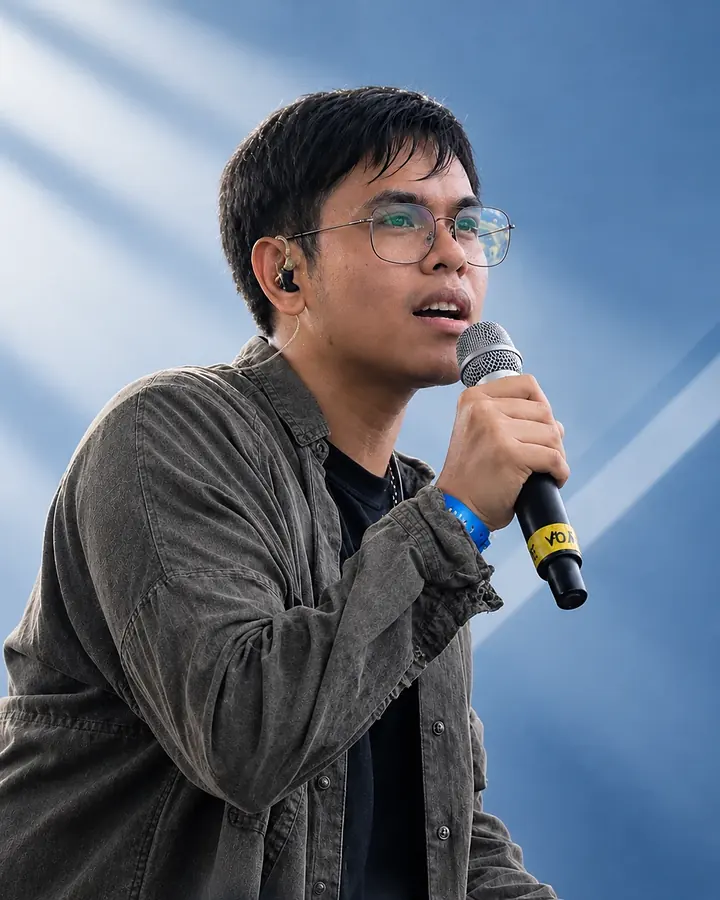
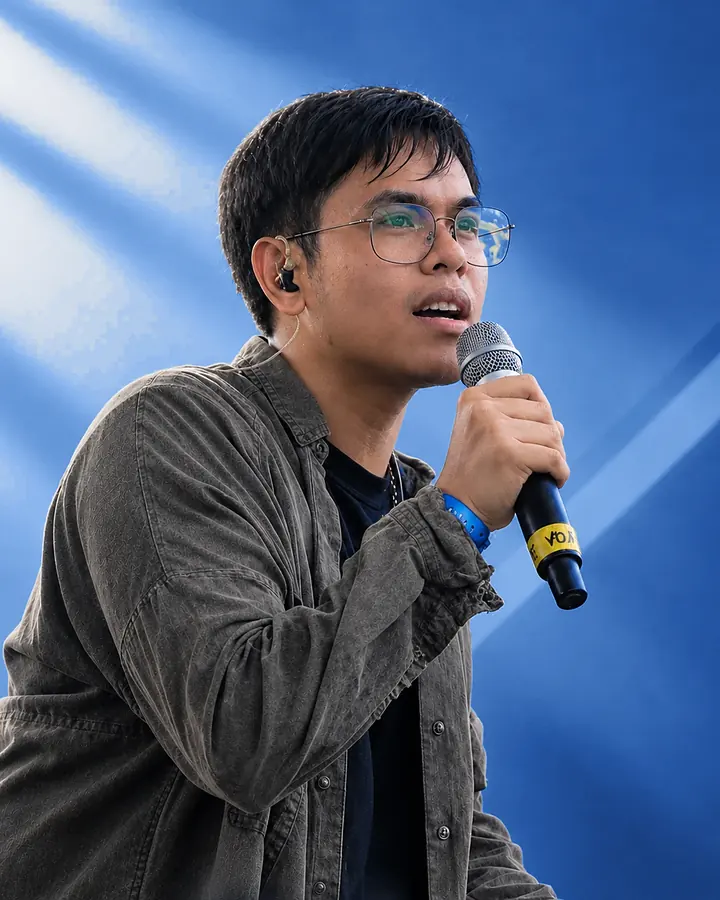
v5.1
v5.1: Navy-graded photos

Colour-graded the hero photos to match the navy theme: a deeper navy backdrop, with sky-blue accents in the light beams and stripe.
Applied it to the desktop, tablet and phone backgrounds, plus the Bio and Gallery portrait and the share image, so everything matches.
Left his skin tones, hair, clothing and eye colour unchanged.
Kept the file sizes the same as v5, so loading speed isn’t affected.
Added a “Colour grade” note to the README for future photo swaps.

diff --git a/styles.css b/styles.css
@@ -2,27 +2,37 @@
    Fonts are loaded from index.html (not @import), so they don't block rendering in a chain. */
 
 :root {
-  /* Palette sampled from the hero photo: navy jacket, denim wall, steel-grey light */
-  --accent: #8fb2d9;        /* text accents, icons, buttons (8.9:1 on the dark background) */
-  --accent-soft: #a9c4e2;   /* section titles */
-  --accent-hover: #b4cde8;  /* hover state for accents and buttons */
-  --accent-line: #5f87b3;   /* rules, underlines, borders */
-  --ice: #e6edf5;           /* hero name: light enough to read on the denim-blue photo */
-  --bg-dark: #070d16;       /* page background: the jacket navy, darkened */
-  --bg-bar: #04080f;        /* top bar and footer */
+  /* Navy palette. Change these and the whole site follows. */
+  --bg-dark: #0a1a35;       /* page background: navy */
+  --bg-bar: #061429;        /* top bar and footer: deeper navy */
+  --alt: #0e2244;           /* alternate sections: a step lighter */
+  --tile: #112b52;          /* placeholder tiles and release covers */
+  --tile-top: #16335f;      /* the lighter end of the cover gradient */
+  --field: #081730;         /* form fields */
+  --panel: rgba(6, 20, 41, 0.82);
+
+  --accent: #86b4f0;        /* text accents, icons, buttons (8:1 on the page background) */
+  --accent-soft: #a5c6f5;   /* section titles */
+  --accent-hover: #bcd6f8;  /* hover state for accents and buttons */
+  --accent-line: #4f86cf;   /* rules, underlines, borders */
+  --ice: #e9f1fc;           /* hero name: light enough to read on the denim-blue photo */
+  --text: #cdd9ec;          /* body copy */
+  --muted: #9db0cc;
+  --line: rgba(134, 180, 240, 0.22);
+  --error: #e8907f;
+
+  /* The same colours as bare numbers, for translucent overlays: rgba(var(--navy-rgb), 0.5) */
+  --navy-rgb: 10, 26, 53;        /* = --bg-dark */
+  --panel-rgb: 6, 20, 41;        /* = --bg-bar */
+  --shadow-rgb: 3, 10, 28;       /* text shadows */
+  --accent-rgb: 134, 180, 240;   /* = --accent */
+  --accent-line-rgb: 79, 134, 207; /* = --accent-line */
 
   --font-display: "Josefin Sans", "Century Gothic", Futura, "Avenir Next", "Trebuchet MS", sans-serif;
   --font-serif: "Playfair Display", Georgia, serif;
   --font-ui: Arial, Helvetica, sans-serif;
 
   --gutter: clamp(1rem, 5vw, 4rem);
-
-  --alt: #0b1420;
-  --panel: rgba(8, 15, 26, 0.8);
-  --line: rgba(143, 178, 217, 0.2);
-  --text: #cfd8e3;          /* body copy */
-  --muted: #9aa8ba;
-  --error: #e8907f;
 }
 
 /* ==========================================================================
@@ -290,9 +300,9 @@ main {
   z-index: -1;
   pointer-events: none;
   background:
-    linear-gradient(to top, rgba(7, 13, 22, 0.85) 0%, rgba(7, 13, 22, 0) 38%),
-    linear-gradient(to bottom, rgba(7, 13, 22, 0.35) 0%, rgba(7, 13, 22, 0) 30%),
-    radial-gradient(ellipse 48% 26% at 72% 20%, rgba(7, 13, 22, 0.5), rgba(7, 13, 22, 0) 100%);
+    linear-gradient(to top, rgba(var(--navy-rgb), 0.85) 0%, rgba(var(--navy-rgb), 0) 38%),
+    linear-gradient(to bottom, rgba(var(--navy-rgb), 0.35) 0%, rgba(var(--navy-rgb), 0) 30%),
+    radial-gradient(ellipse 48% 26% at 72% 20%, rgba(var(--navy-rgb), 0.5), rgba(var(--navy-rgb), 0) 100%);
 }
 
 /* On desktop and landscape he sits on the left, so the text goes in the right-hand area:
@@ -319,7 +329,7 @@ main {
   width: max-content; /* so script.js can read the text's true width */
   white-space: nowrap;
   text-transform: uppercase;
-  text-shadow: 0 2px 22px rgba(4, 10, 20, 0.55);
+  text-shadow: 0 2px 22px rgba(var(--shadow-rgb), 0.55);
 }
 
 .hero-copy p {
@@ -331,7 +341,7 @@ main {
   font-weight: 600;
   letter-spacing: 0.03em;
   line-height: 1.4;
-  text-shadow: 0 1px 14px rgba(4, 10, 20, 0.75);
+  text-shadow: 0 1px 14px rgba(var(--shadow-rgb), 0.75);
 }
 
 /* ==========================================================================
@@ -341,7 +351,7 @@ main {
   width: min(100%, 26rem);
   margin-left: auto;
   padding: 1.5rem 1.75rem;
-  background-color: rgba(8, 15, 26, 0.78);
+  background-color: rgba(var(--panel-rgb), 0.78);
   -webkit-backdrop-filter: blur(4px);
   backdrop-filter: blur(4px);
   border-top: 1px solid rgba(255, 255, 255, 0.08);
@@ -394,8 +404,8 @@ main {
 
 @media (hover: hover) and (prefers-reduced-motion: no-preference) {
   .show-panel:hover {
-    background-color: rgba(8, 15, 26, 0.9);
-    border-top-color: rgba(143, 178, 217, 0.55);
+    background-color: rgba(var(--panel-rgb), 0.9);
+    border-top-color: rgba(var(--accent-rgb), 0.55);
     transform: translateY(-3px);
   }
 }
@@ -533,7 +543,7 @@ main {
 
   /* Only the bottom needs darkening now (behind the shows panel) */
   .hero::after {
-    background: linear-gradient(to top, rgba(7, 13, 22, 0.85) 0%, rgba(7, 13, 22, 0) 38%);
+    background: linear-gradient(to top, rgba(var(--navy-rgb), 0.85) 0%, rgba(var(--navy-rgb), 0) 38%);
   }
 }
 
@@ -577,8 +587,8 @@ main {
   pointer-events: none;
   opacity: 0.55;
   background:
-    linear-gradient(to top right, transparent calc(50% - 0.5px), rgba(143, 178, 217, 0.5) 50%, transparent calc(50% + 0.5px)),
-    linear-gradient(to top right, transparent calc(50% + 14px), rgba(143, 178, 217, 0.25) calc(50% + 15px), transparent calc(50% + 16px));
+    linear-gradient(to top right, transparent calc(50% - 0.5px), rgba(var(--accent-rgb), 0.5) 50%, transparent calc(50% + 0.5px)),
+    linear-gradient(to top right, transparent calc(50% + 14px), rgba(var(--accent-rgb), 0.25) calc(50% + 15px), transparent calc(50% + 16px));
   -webkit-mask-image: linear-gradient(to left, #000, transparent);
   mask-image: linear-gradient(to left, #000, transparent);
 }
@@ -652,8 +662,8 @@ main {
   place-items: center;
   aspect-ratio: 1;
   background:
-    radial-gradient(circle at 20% 15%, rgba(95, 135, 179, 0.35), transparent 55%),
-    linear-gradient(160deg, #10203a, #070d16);
+    radial-gradient(circle at 20% 15%, rgba(var(--accent-line-rgb), 0.35), transparent 55%),
+    linear-gradient(160deg, var(--tile-top), var(--bg-dark));
   border-bottom: 1px solid var(--line);
 }
 
@@ -736,7 +746,7 @@ main {
 .shot {
   position: relative;
   overflow: hidden;
-  background: linear-gradient(135deg, #0f1c30, #070d16);
+  background: linear-gradient(135deg, var(--tile), var(--bg-dark));
   border: 1px solid var(--line);
 }
 
@@ -899,7 +909,7 @@ main {
   padding: 0.8rem 1rem;
   border: 1px solid rgba(255, 255, 255, 0.2);
   border-radius: 0;
-  background-color: #08111d;
+  background-color: var(--field);
   color: #fff;
   font: inherit;
   font-size: 1rem; /* 16px stops iPhones zooming in on focus */
@@ -976,7 +986,7 @@ main {
 }
 
 .btn-secondary:hover {
-  background: rgba(143, 178, 217, 0.14);
+  background: rgba(var(--accent-rgb), 0.14);
 }
 
 .btn:disabled {
@@ -1032,7 +1042,7 @@ main {
 }
 
 @media (hover: hover) and (prefers-reduced-motion: no-preference) {
-  .card:hover { border-top-color: rgba(143, 178, 217, 0.55); transform: translateY(-3px); }
+  .card:hover { border-top-color: rgba(var(--accent-rgb), 0.55); transform: translateY(-3px); }
   .shot--photo:hover img { transform: scale(1.04); }
 }
 

diff --git a/index.html b/index.html
@@ -4,7 +4,7 @@
   <meta charset="UTF-8">
   <meta name="viewport" content="width=device-width, initial-scale=1">
   <meta name="color-scheme" content="dark">
-  <meta name="theme-color" content="#04080f">
+  <meta name="theme-color" content="#061429">
 
   <!--
     Content Security Policy: the browser may only load what this page actually uses.

diff --git a/README.md b/README.md
@@ -3,7 +3,7 @@
 A one-page musician profile site built with plain HTML, CSS and JavaScript. There is no framework and no build step.
 
 - **Live site:** https://minawph.pages.dev/
-- **Version:** v4.9 (24 October 2026)
+- **Version:** v5.1 (25 October 2026)
 
 ## What's on the page
 
@@ -44,21 +44,23 @@ The contact form cannot be tested from a local file. See **Contact form** below.
 
 ## Colour palette
 
-The colours are sampled from the hero photo (navy denim jacket, blue wall, steel-grey light). They all live as variables at the top of `styles.css`, so a change there updates the whole site.
+A navy theme that sits alongside the blues in the hero photo. All colours live as variables at the top of `styles.css`, so changing them there changes the whole site. Translucent overlays use the bare-number versions (`--navy-rgb`, `--accent-rgb` and so on), so keep those in step with the matching colour.
 
 | Variable | Value | Used for |
 | --- | --- | --- |
-| `--bg-dark` | `#070d16` | Page background |
-| `--bg-bar` | `#04080f` | Top bar and footer |
-| `--alt` | `#0b1420` | Alternate section background |
-| `--ice` | `#e6edf5` | Hero name (light enough to read on the blue photo) |
-| `--accent-soft` | `#a9c4e2` | Section titles |
-| `--accent` | `#8fb2d9` | Links, tags, dates, icons, buttons, logo |
-| `--accent-hover` | `#b4cde8` | Hover state |
-| `--accent-line` | `#5f87b3` | Rules and underlines |
-| `--text` / `--muted` | `#cfd8e3` / `#9aa8ba` | Body copy / secondary text |
+| `--bg-dark` | `#0a1a35` | Page background (also `--navy-rgb`) |
+| `--bg-bar` | `#061429` | Top bar and footer (also `--panel-rgb`) |
+| `--alt` | `#0e2244` | Alternate section background |
+| `--tile` / `--tile-top` | `#112b52` / `#16335f` | Placeholder tiles and release covers |
+| `--field` | `#081730` | Form fields |
+| `--ice` | `#e9f1fc` | Hero name (light enough to read on the blue photo) |
+| `--accent-soft` | `#a5c6f5` | Section titles |
+| `--accent` | `#86b4f0` | Links, tags, dates, icons, buttons, logo (also `--accent-rgb`) |
+| `--accent-hover` | `#bcd6f8` | Hover state |
+| `--accent-line` | `#4f86cf` | Rules and underlines (also `--accent-line-rgb`) |
+| `--text` / `--muted` | `#cdd9ec` / `#9db0cc` | Body copy / secondary text |
 
-If the hero photo changes, the logo files (`favicon*.png`, `logo-minaw.*`, `apple-touch-icon.png`), `og-image.jpg` and `portrait.webp` should be refreshed to match.
+If you change `--accent` or `--bg-dark`, also regrade the photos (see Colour grade), refresh the logo files (`favicon*.png`, `favicon.svg`, `logo-minaw.*`) and `apple-touch-icon.png`, which carry those two colours, and the `theme-color` in `index.html`.
 
 ## Still to fill in
 
@@ -86,6 +88,7 @@ Until step 2 is done, the Send button opens the visitor's email app instead.
 
 - **Hero photo:** A `<picture>` element picks the desktop, tablet or mobile image. On desktop and landscape the photo fills the hero and the name sits beside him. On phones and portrait tablets the name and tagline sit in their own band at the top and the photo is a fixed-shape block below it (4:5 on phones, square on tablets) that fades in from the page's navy at its top edge, so the text can never overlap him whatever the screen height, browser bars or font size. `script.js` reports where the text ends in `--hero-text-bottom`, and the hero's minimum height in `styles.css` keeps the whole photo visible. The phone and tablet images are plain crops with no baked-in fade, made from the square portrait photo (`portrait.webp`), which shows him larger and sharper than the desktop photo. To change them, crop to the same shape and keep his head at least 8% below the top edge, because the top 6% fades into the page. A soft navy tint over the desktop hero (in `.hero::after`) keeps the name readable where it crosses the light stripe.
 - **Image sizes:** Each hero photo comes in more than one size, and the browser downloads only the one the screen needs (`srcset` and `sizes` in `index.html`): a 1920 px laptop gets an 89 KB file instead of a 479 KB one. All photos are WebP at quality 76 to 80, which looks the same as the originals on screen. When you replace a photo, make each size from your largest original and keep the file names. A good rule is to keep each hero image under about 140 KB.
+- **Colour grade:** All the photos (the three hero backgrounds, the Bio and Gallery portrait and the share image) are colour-graded to the navy theme. Only the blue backdrop is regraded: deeper navy in the shadows, the site's sky-blue accent in the light beams and stripe. Skin, hair, the jacket and the microphone are left untouched, and the teal reflection in his glasses is kept. When you swap a photo, ask for the same grade so it matches the page, and grade the original before making the smaller sizes.
 - **Hero name:** It stays on one line (`white-space: nowrap`). `script.js` (`initHeroName`) measures the name's real width in whichever font is showing and sets the font size so it fills the available room (`--name-room` in `styles.css`), up to a ceiling set in CSS (`--name-max`: about 165 px on a wide desktop, 144 px on a tablet). The ceiling grows with the screen width so the end of the name stays clear of the light stripe in the photo. It re-fits when the web font finishes loading and when the window is resized. To make the name bigger or smaller, change `--name-max` (and `--name-room` for the space it may use).
 - **Nav:** It stays pinned on tablets and desktops. On phones it is one row you can swipe, with arrow buttons at each end.
 - **Fonts:** Josefin Sans (headings and titles) and Playfair Display (the italic tagline and lead lines) come from Google Fonts. The social icons use Font Awesome. To try another heading font, change the family name in the Google Fonts `<link>` in `index.html` and `--font-display` in `styles.css`; the hero name resizes itself to fit. Good alternatives for the same feel: Jost (closer to Futura), Righteous (rounded 70s style), Syncopate (very wide and retro-futuristic; the name will be smaller).
@@ -97,6 +100,8 @@ The site is hosted on Cloudflare Pages. Pushing to the `main` branch on GitHub r
 
 ## Release history
 
+- **v5.1 (2026-10-25):** The navy theme now extends to the photos. The desktop, tablet and phone backgrounds, the portrait and the share image are colour-graded: a deeper navy backdrop with sky-blue accents in the light, while skin tones, hair, clothing and eye colour are unchanged. File sizes are about the same as v5.
+- **v5 (2026-10-25):** The theme moved from near-black to a richer navy blue (page, top bar, footer, sections, overlays and form fields), with a slightly brighter sky-blue accent. All colours are now variables in one place, including the translucent overlays. The logo, favicons and Apple icon were recoloured to match. Contrast stays high (body text 12:1, accent 8:1 on the page background).
 - **v4.9 (2026-10-24):** New wide desktop background made from the square portrait photo, so the desktop, tablet and phone images all match. The share image was resized from 3840 x 2160 (985 KB) to the standard 1200 x 630 (88 KB). Images optimized for faster loading: the desktop photo went from 479 KB to 89 KB (1920 px) or 133 KB (2560 px) and the browser picks by screen; phones get 53 KB (720 px) or 94 KB (1080 px) instead of 122 KB; the tablet photo went from 110 KB to 83 KB; the portrait from 193 KB to 74 KB.
 - **v4.8 (2026-10-24):** Phone (4:5) and tablet (square) backgrounds rebuilt from the square portrait photo, which has more detail than the desktop photo. The fade at the top of the photo was shortened from 10% to 6% so his hair stays solid.
 - **v4.7 (2026-10-24):** Fixed the name and tagline overlapping his head on real phones. On portrait phones and tablets the photo now sits below the text instead of behind it, so the layout no longer depends on screen height, browser bars or the exact crop. The phone and tablet images are now plain 4:5 and square crops.
